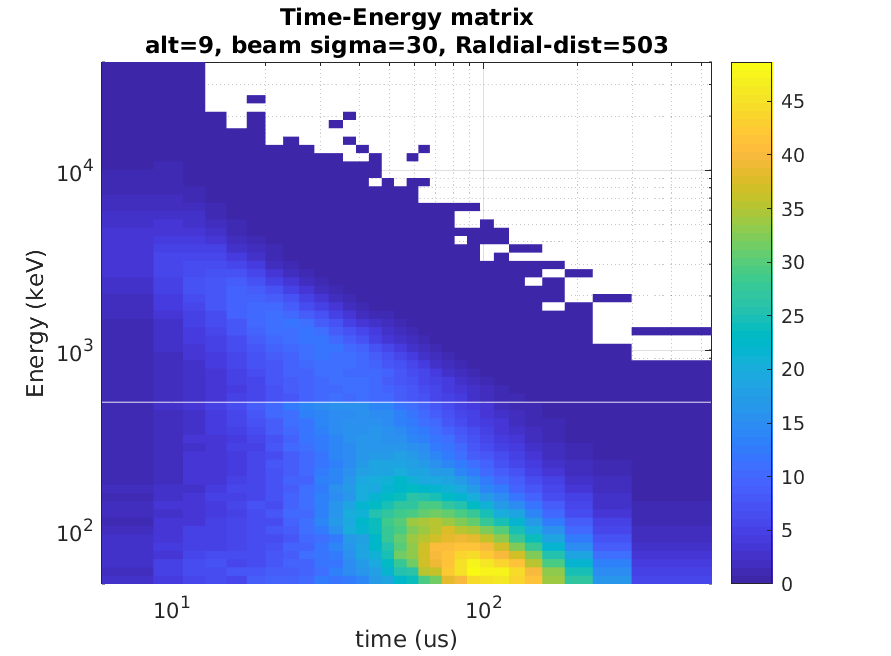
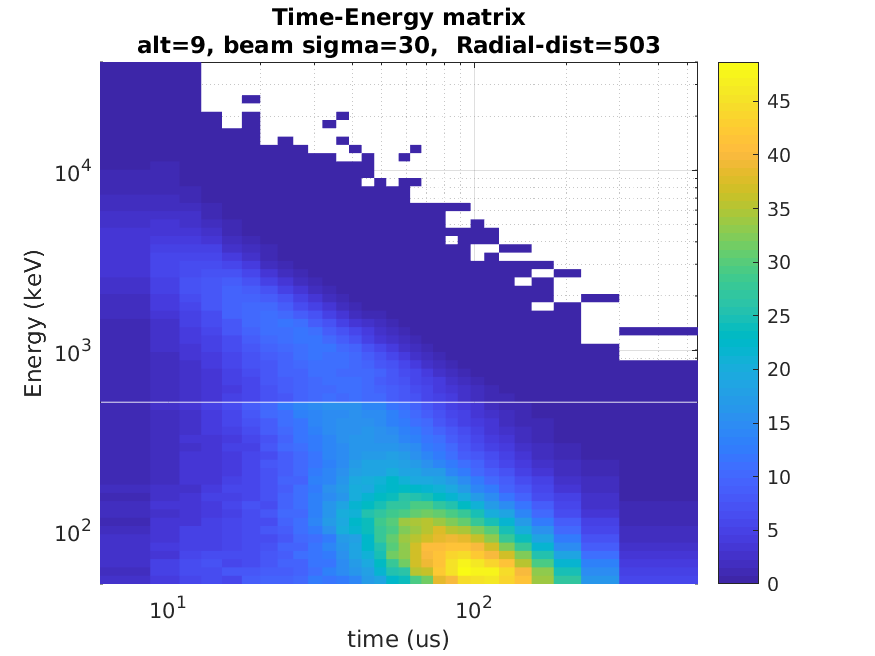
initial commit

diff --git a/get_TGF_time_energy_matrix_write_to_files.m b/get_TGF_time_energy_matrix_write_to_files.m
@@ -6,6 +6,14 @@ clc
 alt = 9;
 beam_sigma = 30;
 Radial_dist = 503; % must be between 0 and 600
+%%
+
+if ~ismember(alt,[9:19])
+   error('Altitude must be 9, 11, 13, 15, 17 or 19 (km)'); 
+end
+if ~ismember(beam_sigma,[5 15 30])
+   error('Beaming must be 5, 15 or 30 (gaussian sigma)'); 
+end
 
 %%
 if ~exist('./PLOTS/', 'dir')
@@ -19,23 +27,23 @@ end
 [time_energy_matrix,energy_spectrum,energy_grid,time_spectrum,time_grid] = ...
     generate_TGF_time_energy_matrix_simple(alt,beam_sigma,Radial_dist);
 
-figure(1)
+figure(1), hold on
 histogram('BinEdges',energy_grid,'BinCounts',energy_spectrum,'DisplayStyle','stairs')
 set(gca,'xscale','log')
 set(gca,'yscale','log')
 title({'Energy Spectrum',...
     ['alt=' num2str(alt) ', beam sigma=' num2str(beam_sigma) ...
-    ', Raldial-dist=' num2str(Radial_dist)]})
+    ', Raldial-dist=' num2str(round(Radial_dist))]})
 xlabel('Energy (keV)')
 ylabel('dn/de spectrum (normalized)')
 grid on
 
-figure(2)
+figure(2), hold on
 histogram('BinEdges',time_grid,'BinCounts',time_spectrum,'DisplayStyle','stairs')
 % set(gca,'xscale','log')
 title({'Lightcurve (time)',...
     ['alt=' num2str(alt) ', beam sigma=' num2str(beam_sigma) ...
-    ', Raldial-dist=' num2str(Radial_dist)]})
+    ', Raldial-dist=' num2str(round(Radial_dist))]})
 xlabel('time (microsecond)')
 ylabel('dn/dt spectrum (normalized)')
 grid on
@@ -51,12 +59,14 @@ ylabel('Energy (keV)')
 colorbar
 title({'Time-Energy matrix',...
     ['alt=' num2str(alt) ', beam sigma=' num2str(beam_sigma) ...
-    ', Raldial-dist=' num2str(Radial_dist)]})
+    ', Raldial-dist=' num2str(round(Radial_dist))]})
 
 
 %% writing to files
-out_folder = ['./OUTPUT/' num2str(alt) '_' num2str(beam_sigma) '_' num2str(Radial_dist) '/'];
-mkdir(out_folder)
+out_folder = ['./OUTPUT/' num2str(alt) '_' num2str(beam_sigma) '_' num2str(round(Radial_dist)) '/'];
+if ~exist(out_folder, 'dir')
+    mkdir(out_folder)
+end
 
 dlmwrite_exp_format([out_folder 'energy_spec.csv'],[energy_grid(:) [-9.999000E+03;energy_spectrum(:)]]);
 dlmwrite_exp_format([out_folder 'time_spec.csv'],[time_grid(:) [-9.999000E+03;time_spectrum(:)]]);
@@ -65,12 +75,12 @@ dlmwrite_exp_format([out_folder 'matrix.csv'],[time_energy_matrix]);
 % saving plots
 figure(1)
 saveas(gcf,['./PLOTS/energy_spec_' num2str(alt) '_' num2str(beam_sigma) ...
-    '_' num2str(Radial_dist) '.png'])
+    '_' num2str(round(Radial_dist)) '.png'])
 figure(2)
 saveas(gcf,['./PLOTS/time_spec_' num2str(alt) '_' num2str(beam_sigma) ...
-    '_' num2str(Radial_dist) '.png'])
+    '_' num2str(round(Radial_dist)) '.png'])
 figure(3)
 saveas(gcf,['./PLOTS/matrix_' num2str(alt) '_' num2str(beam_sigma) ...
-    '_' num2str(Radial_dist) '.png'])
+    '_' num2str(round(Radial_dist)) '.png'])
 
 

diff --git a/generate_TGF_time_energy_matrix_simple.m b/generate_TGF_time_energy_matrix_simple.m
@@ -1,5 +1,12 @@
 function [matrix_L,energy_spectrum,energy_bins,time_spectrum,time_bins] = generate_TGF_time_energy_matrix_simple(altitude,beaming,radial_dist)
 
+if (radial_dist==600)
+   radial_dist=599.99; 
+end
+if (radial_dist==0)
+   radial_dist=0.01; 
+end
+
 rd_q = radial_dist; % km
 
 lo = load(['./dataFiles/matrices_time_energy_' num2str(altitude) '_' num2str(beaming) '.mat']);

diff --git a/README.md b/README.md
@@ -1,0 +1,21 @@
+* MATLAB code to generate Terrestrial Gamma-Ray Flashes (TGF) spectrums, lightcurves and time-energy matrices.
+* Use the script `get_TGF_time_energy_matrix_write_to_files.m` to generate them (and edit the wanted values).
+* Output files are written in the `OUTPUT` folder. The matrix time and energy grids are the same as the spectrum and lightcurve. Generated plots are written in the `PLOTS` folder.
+* The simulations assume a RREA TGF source energy spectrum (1/E*exp(-E/7.3MeV)) and a gaussian beaming (angular distribution) centered towards zenith.
+* Output energies are between 50 keV and 40 MeV.
+* Possibilities:
+  * Available altitudes are 9, 11, 13, 15, 17 and 19 km. 
+  * Available beaming angles are sigma of 5, 15 and 30 degrees.
+  * Available radial distances are between 0 and 600 km. The radial distance is defined as the arclength distance (at sea level) between the TGF and the satellite (detector) positions.
+  * the satellite detecting the TGF is assumed at 400 km altitude (other altitude can be deduced by projection)
+* The data was generated using the Geant4 (Monte-Carlo) based code available here: 
+https://github.com/DavidSarria89/TGF-Propagation-Geant4-MT/
+
+
+![Time_energy_matrix_example](./PLOTS/matrix_9_30_503.png)
+
+![Spectrum_example](./PLOTS/energy_spec_9_30_503.png)
+
+![Spectrum_example2](./PLOTS/comparison_beam_9_km.png)
+
+![Lightcurve_example](./PLOTS/time_spec_9_30_503.png)
